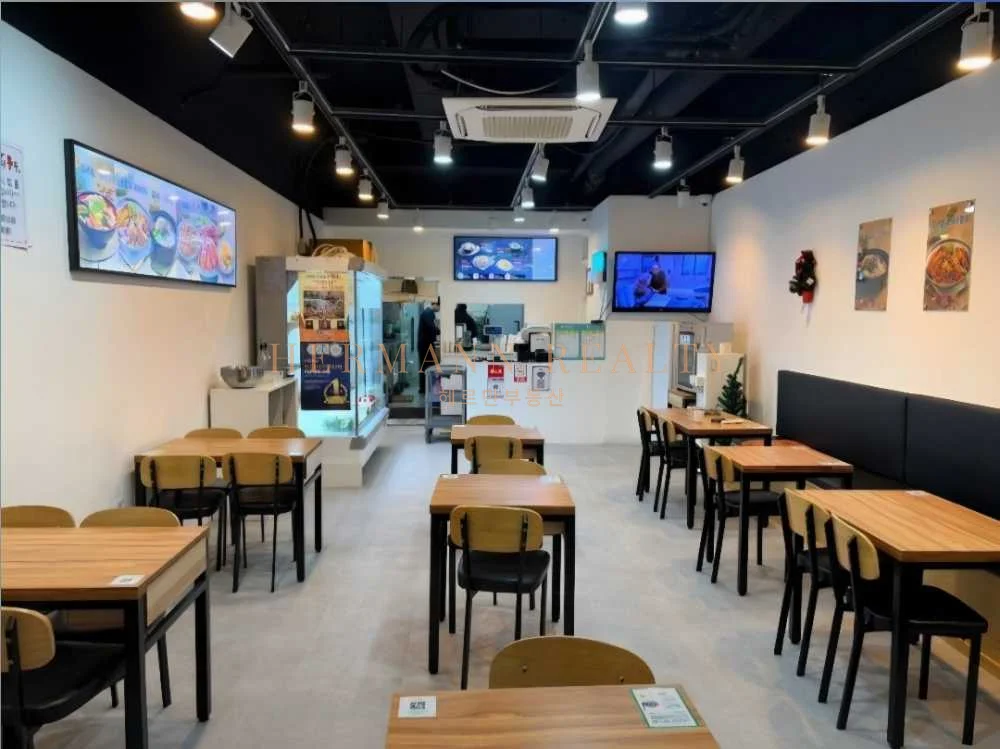
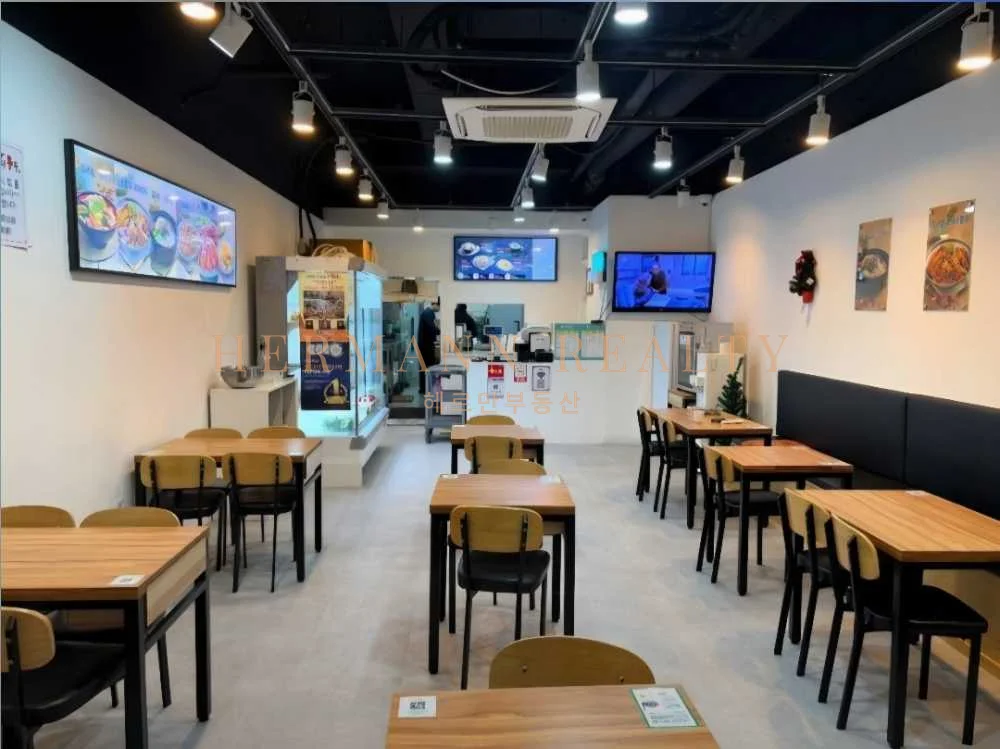
fix: 워터마크 폭을 60%로 확대

Changed region(s): [[0.217, 0.4299, 0.713, 0.5527], [0.744, 0.4606, 0.775, 0.4913]]

diff --git a/lib/watermark.js b/lib/watermark.js
@@ -17,7 +17,7 @@ const WATERMARK_PNG_PATH = path.join(process.cwd(), 'assets', 'watermark.png');
 
 // 사진 가로폭 대비 워터마크 폭 비율, 최종 합성 시 적용할 불투명도.
 // 필요하면 이 두 상수만 조정하면 된다.
-const WATERMARK_WIDTH_RATIO = 0.48;
+const WATERMARK_WIDTH_RATIO = 0.6;
 const WATERMARK_OPACITY = 0.55;
 
 let cachedPngPromise = null;

diff --git a/CLAUDE.md b/CLAUDE.md
@@ -338,7 +338,7 @@ lib/
 - **텍스트 PNG**: `assets/watermark.png` — `scripts/make-watermark-png.js`로 로컬에서 1회 생성해 커밋해둔 투명 PNG (서버 sharp는 한글 글꼴이 없어 SVG 텍스트를 직접 그리면 한글이 깨지므로, 텍스트는 미리 이미지로 만들어 합성만 함)
   - 생성에 쓰는 글꼴(OFL, `assets/fonts/`에 커밋): 영문 `PlayfairDisplay-Regular.ttf`, 한글 `Pretendard-Medium.otf` — 둘 다 생성 스크립트 전용, 런타임에는 불필요
   - PNG 재생성 시: `npm install --save-dev @napi-rs/canvas` 필요(글꼴 파일을 직접 읽어 렌더링 — OS에 폰트 설치 여부와 무관), `node scripts/make-watermark-png.js`
-- **합성 로직**: `lib/watermark.js` (CommonJS, `/api/upload`와 `scripts/watermark-existing-photos.js`가 공용) — `assets/watermark.png`을 사진 가로폭의 48%로 리사이즈 후 불투명도 55%로 가운데 합성(화면 오버레이와 동일 수준 — 처음엔 25%로 했다가 밝은 사진에서 거의 안 보여 올림). 비율/불투명도는 파일 상단 `WATERMARK_WIDTH_RATIO`/`WATERMARK_OPACITY` 상수. 결과는 WebP
+- **합성 로직**: `lib/watermark.js` (CommonJS, `/api/upload`와 `scripts/watermark-existing-photos.js`가 공용) — `assets/watermark.png`을 사진 가로폭의 60%로 리사이즈 후 불투명도 55%로 가운데 합성(화면 오버레이와 동일 수준 — 처음엔 25%로 했다가 밝은 사진에서 거의 안 보여 올림. 폭도 처음 48%에서 60%로 확대). 비율/불투명도는 파일 상단 `WATERMARK_WIDTH_RATIO`/`WATERMARK_OPACITY` 상수. 워터마크 PNG가 가로로 긴 배너형이라 60%로 키워도 세로 사진에서 넘치지 않음. 결과는 WebP
   - `assets/watermark.png` 자체에도 밝은/흰 벽 사진 대비용 약한 그림자 포함 — 글자 알파로 만든 검은 실루엣을 25% 불투명도로 깐 뒤 blur(sigma 2.5)만 준 것(방향성 없는 halo). `scripts/make-watermark-png.js`의 `SHADOW_BLUR_SIGMA`/`SHADOW_OPACITY` 상수로 조정
   - Vercel 배포 시 `assets/watermark.png`이 `/api/upload` 서버리스 번들에 포함되도록 `next.config.js`의 `experimental.outputFileTracingIncludes`에 명시 (빌드 후 `.next/server/app/api/upload/route.js.nft.json`에 포함 여부로 확인됨)
 - **기존 사진 일괄 적용**: `scripts/watermark-existing-photos.js` (`--dry-run`, `--limit N`, `--only 테이블명`)
